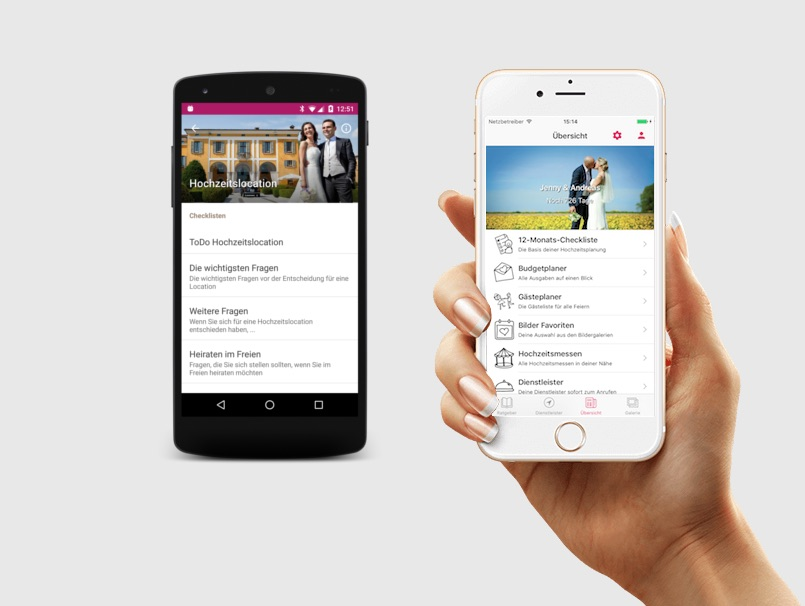
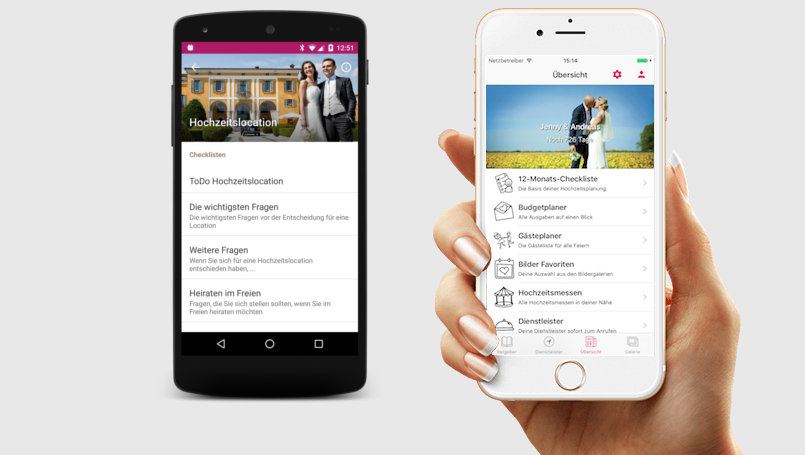
opengraph tuning

diff --git a/index.html b/index.html
@@ -6,12 +6,12 @@
 	<meta charset="UTF-8">
 	<meta property="og:title" content="Weddian Hochzeitsplaner+ App" />
 	<meta property="og:type" content="website" />
-	<meta property="og:url" content="http://hochzeitsplanerplus.de" />
+	<meta property="og:url" content="http://hochzeitsplaner.grundid.de" />
 	<meta property="og:description"
 		  content="Der Weddian Hochzeitsplaner+ ist die beste App zur Hochzeitsplanung. Sie unterstützt Euch bei der gemeinsamen Hochzeitsvorbereitung mit Checklisten, Bildergalerien und Planungstools und hilft Euch bei der Auswahl der besten Hochzeitsdienstleister." />
 	<meta property="og:image" content="http://hochzeitsplaner.grundid.de/img/preview.jpg" />
 	<meta property="og:image:width" content="805" />
-	<meta property="og:image:height" content="606" />
+	<meta property="og:image:height" content="455" />
 	<meta property="fb:app_id" content="438529333022167" />
 
 	<!-- All other meta tag here -->
